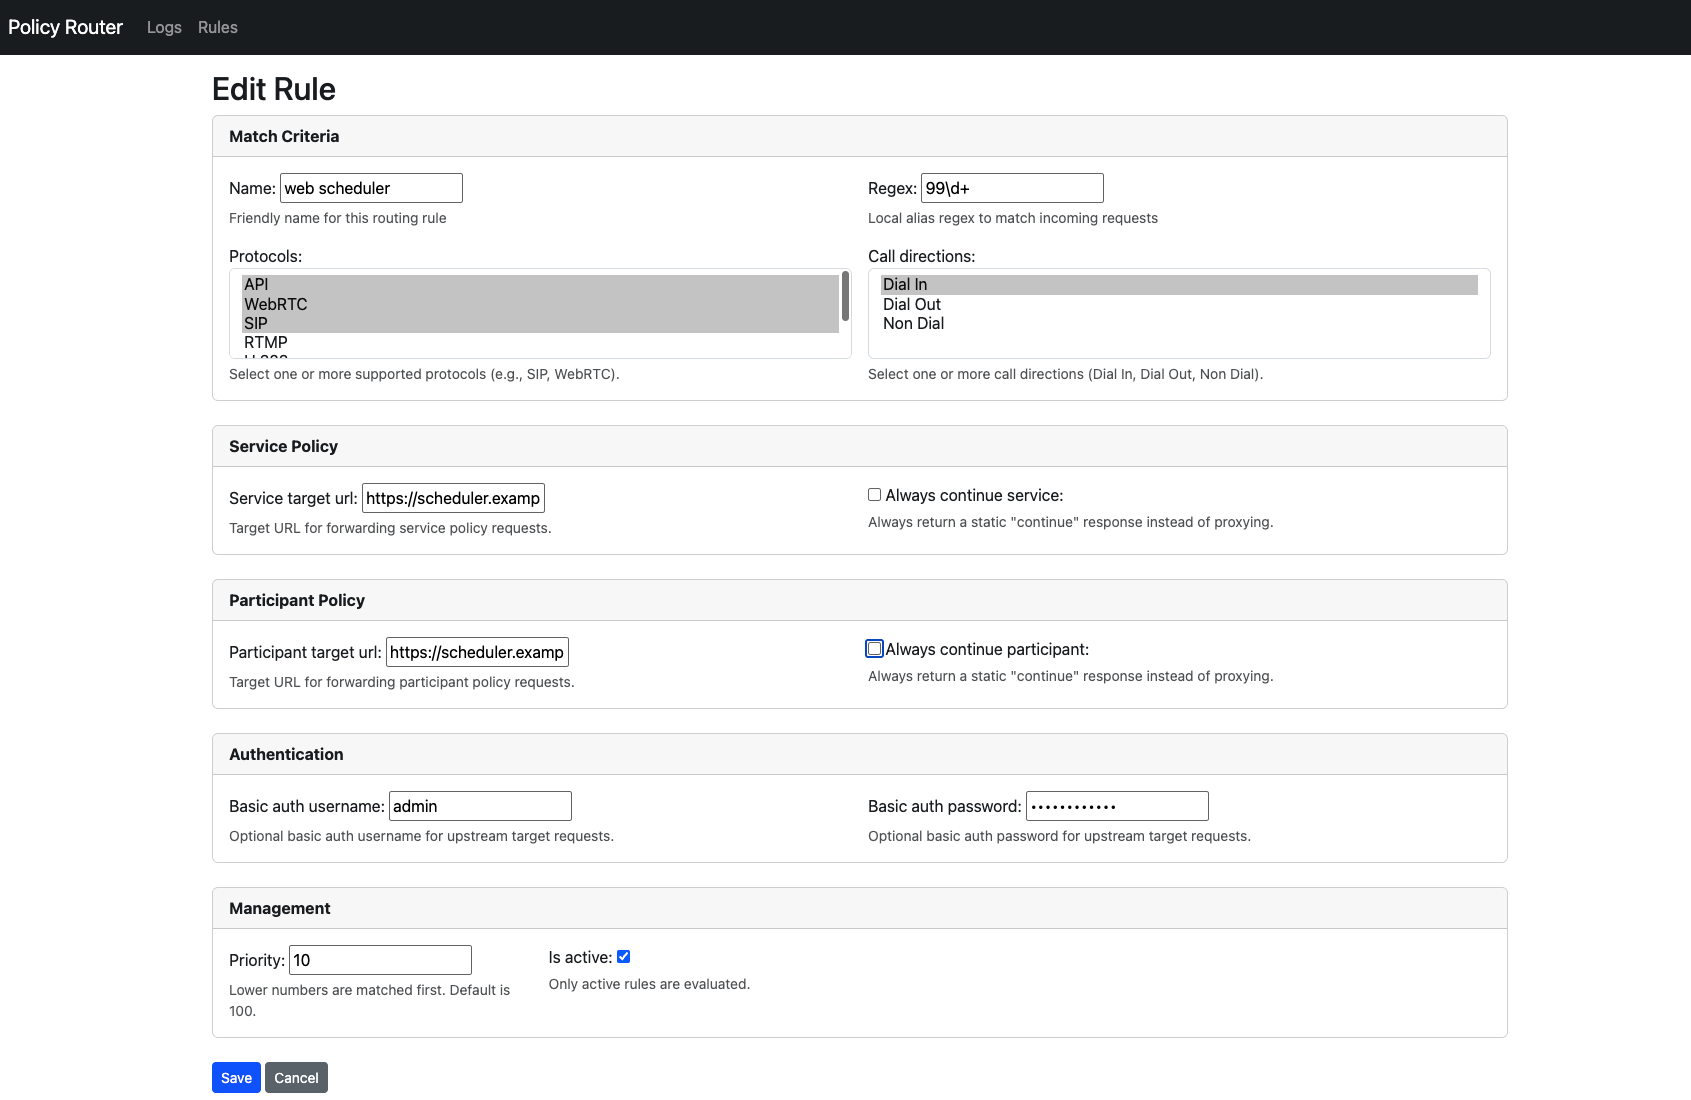
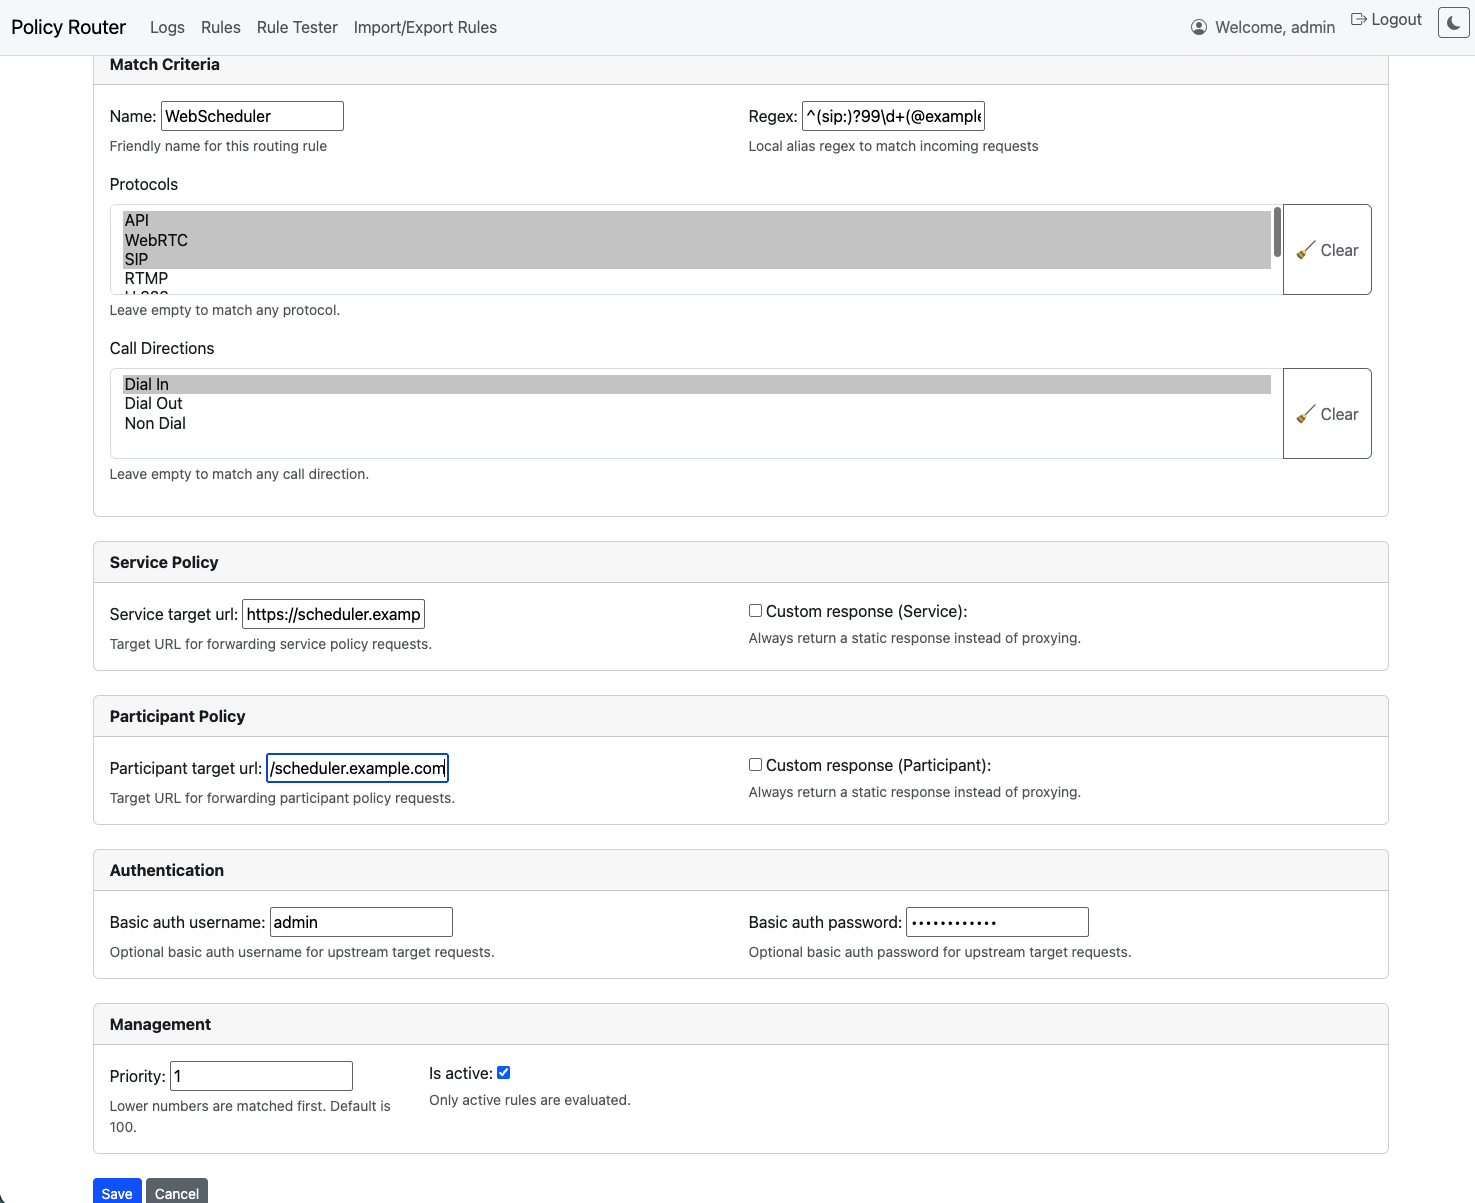
add new pngs and README update

diff --git a/README.md b/README.md
@@ -1,145 +1,152 @@
-# Pexip Policy Router
+# 🧭 Pexip Policy Router
 
-A Django-based proxy and management interface for routing **Pexip Infinity Service** and **Participant Policy** requests.  
-This project allows administrators to configure regex-based rules to forward policy requests to one or more upstream policy servers, with support for:
-
-- **Service policy proxying** (`/policy/v1/service/configuration`)
-- **Participant policy proxying** (`/policy/v1/participant/properties`)
-- **Regex-based rule matching** on `local_alias`
-- **Rule matching** on `call_direction` and/or `protocol`
-- **Rule priorities** (lower numbers evaluated first)
-- **Optional Basic Authentication** per upstream
-- **Request/response logging** with a searchable log viewer
+A **Django-based proxy and management interface** for routing **Pexip Infinity Service** and **Participant Policy** requests.  
+Administrators can configure **regex-based rules** to forward or override policy requests to one or more upstream servers — with live metrics, duplicate detection, and a modern web UI.
 
 ---
 
-## Screenshots
+## ⚙ Core Capabilities
 
-### Rule Management
+- **Service Policy Proxy** → `/policy/v1/service/configuration`  
+- **Participant Policy Proxy** → `/policy/v1/participant/properties`
+- **Regex Rule Matching** on `local_alias`
+- **Optional filters** for `protocol` and `call_direction`
+- **Rule Priority Ordering** (lower numbers evaluated first)
+- **Basic Authentication** per upstream
+- **Full request / response logging**
+- **Web UI for rules & logs**
+- **Import / Export via CSV**
+
+---
+
+## 🧩 Modern UI Features
+
+| Feature | Description |
+|----------|--------------|
+| 🔀 **Drag-and-Drop Reordering** | Easily change rule priorities by dragging rows — instant persistence |
+| 🧬 **Duplicate Detection** | Identifies overlapping regex patterns, with tooltips showing overlap examples |
+| 📈 **Usage Metrics** | Each rule tracks hit count and last-matched timestamp |
+| 🧱 **CSV Import / Export** | Backup or bulk-edit all rules via a simple CSV |
+| 🪄 **Rule Duplication** | One-click cloning of existing rules |
+| 🔒 **Basic Auth Configurable per Rule** | Different upstream credentials per target |
+| 💡 **Override Responses** | Instantly return custom JSON for service or participant policies |
+| 🔍 **Log Viewer** | Filter by rule, alias, and date — with syntax-highlighted JSON |
+| 🧭 **Filter Memory & Live Search** | Filters persist across sessions for smooth UX |
+| 🖱 **Sticky Table Columns** | “Grip” and “Actions” columns always visible — no horizontal scrolling |
+
+---
+
+## 🖼 Screenshots
+
+### Rules Dashboard  
 ![Rules List](docs/screenshots/policy_router_list.png)
 
-### Rule Form
+### Edit Rule  
 ![Rules Form](docs/screenshots/policy_router_form.png)
 
-### Logs Viewer
+### Logs Viewer  
 ![Logs View](docs/screenshots/policy_router_filter_logs.png)
 
 ---
-## ✨ Features
 
-- **Rule-based routing**
-  - Match requests based on `local_alias` regex
-  - Rules are applied in **priority order** (lowest number first)
-  - Active/inactive toggle per rule
+## ✨ Highlights
 
-- **Overrides**
-  - Rules can be configured to **always return a JSON response** instead of forwarding upstream
-  - Default override responses:
-    ```json
-    { "status": "success", "action": "continue" }
-    ```
-  - Custom JSON responses can be defined per rule for:
-    - Service policy (`/policy/v1/service/configuration`)
-    - Participant policy (`/policy/v1/participant/properties`)
+### Rule-Based Routing
+- Rules evaluated by ascending priority
+- Match against `local_alias`, `protocol`, and `call_direction`
+- Optional JSON override instead of proxying upstream
 
-- **Authentication**
-  - Supports optional **Basic Auth** for upstream targets
+### Override Mode
+Define static responses for fast local handling:
+```json
+{ "status": "success", "action": "continue" }
+```
+Used for service and participant endpoints independently.
 
-- **Logging**
-  - Every request and response is logged in the database
-  - Logs include:
-    - Rule matched
-    - Request path, method, body
-    - Response status and body
-    - Whether the rule was an **override**
-  - Logs UI:
-    - Filter by rule, alias, date/time
-    - Highlight search terms
-    - Pretty-printed JSON with syntax highlighting
+### Secure Proxying
+- Supports per-rule **Basic Auth** to authenticate against remote policy servers  
+- Automatically strips hop-by-hop headers before forwarding
 
-- **Admin & UI**
-  - Manage rules through Django Admin or custom HTML forms
-  - Add/edit/delete rules
-  - Override toggles with JSON editor fields
-  - Logs displayed with pagination, highlighting, and JSON pretty-printing
-
-- **Deployment Ready**
-  - Includes `.gitignore`, `requirements.txt`
----
-
-##  Requirements
-
-- Python **3.11+**
-- Django **5.0+**
-- httpx
-
-Dependencies are listed in `requirements.txt`.
+### Logging
+- Every request/response is stored with:
+  - Rule matched
+  - Alias and parameters
+  - Upstream URL and response code
+  - Override flag
+- Web UI includes:
+  - Filter/search by alias, rule, or timeframe
+  - Syntax-highlighted JSON
+  - Pagination and export options
 
 ---
 
-##  Installation
+## 🧱 Installation for a dev environment
 
-1. Clone the repository:
+### Requirements
+- **Python 3.11+**
+- **Django 5.0+**
+- **httpx**
 
-   ```bash
-   git clone https://github.com/your-org/pexip-policy-router.git
-   cd pexip-policy-router
+### Steps
+```bash
+git clone https://github.com/your-org/pexip-policy-router.git
+cd pexip-policy-router
 
-2. Create a virtual environment and install dependencies:
+python3 -m venv venv
+source venv/bin/activate   # macOS/Linux
+venv\Scripts\activate      # Windows
 
-    ```bash
-    python3 -m venv venv
-    source venv/bin/activate   # On Linux/macOS
-    venv\Scripts\activate      # On Windows
+pip install -r requirements.txt
+python manage.py makemigrations policy_router
+python manage.py migrate
+python manage.py createsuperuser
+python manage.py runserver 0.0.0.0:8000
+```
 
-    pip install -r requirements.txt
+---
 
-3. Run migrations:
+## 🚀 Usage
 
-    ```bash
-    python manage.py makemigrations policy_router
-    python manage.py migrate
-
-4. Create superuser (optional):
-
-    ```bash
-    python manage.py createsuperuser
-
-5. Start the development server:
-
-    ```bash
-    python manage.py runserver 0.0.0.0:8000
-
-##  Usage
-
-- Rules UI: Visit http://localhost:8000/rules/ to create, edit, and delete rules.
-- Logs UI: Visit http://localhost:8000/logs/ to search and view request logs.
+### Web UI
+- Rules: [http://localhost:8000/rules/](http://localhost:8000/rules/)
+- Logs: [http://localhost:8000/logs/](http://localhost:8000/logs/)
 
 ### Example Rule
+| Field | Example |
+|-------|----------|
+| Local Alias Regex | `^(sip:)?99\d+(@example.com)?` |
+| Service Policy Target | `https://webscheduler.example.com` |
+| Participant Policy Target | `https://webscheduler.example.com` |
+| Priority | `1` |
+| Basic Auth | `username` / `password` |
 
-- Local Alias Regex: ^room-\d+$
-- Service Policy Target: https://upstream.example.com
-- Participant Policy Target: https://upstream.example.com
-- Priority: 1
-- Basic Auth: username / password
+### Log Rotation
+```bash
+python manage.py rotate_logs --days=30
+```
+*(Can be scheduled with cron or Celery Beat.)*
 
-### Log rotation
+---
 
-As this is a POC, you can add log rotation to a crod job or run manually. Proper implementation would be to use something like a Celery Beat Task
+## ☁ Deploy to Azure Web App (Linux)
 
-    ```bash
-    python manage.py rotate_logs --days=30
+See [DeployAzureWebApp.md](DeployAzureWebApp.md) for deployment notes.
 
-### Deploy to Azure WebApp - Linux
-  See DeployAzureWebApp.md
+---
 
-### Authentication
+## 🔐 Authentication
 
-The application is configured to use the superuser credentials configured in step 4. The policy endpoints also use these credentials, so add them to the configration of the external policy server in the Infinity policy profile.
+The app uses Django’s authentication system.  
+By default:
+- Web UI requires login (`ENABLE_WEB_AUTH = True`)
+- Policy endpoints can require Basic Auth (`ENABLE_POLICY_AUTH = True`)
 
-To disable or enable authentication for the app, adjust the settings in the settings.py file:
+Configured in `settings.py`:
+```python
+ENABLE_WEB_AUTH = True        # Require login for web views
+ENABLE_POLICY_AUTH = True     # Require Basic Auth for /policy endpoints
+```
 
-    ```bash
-    # Authentication toggles
-    ENABLE_WEB_AUTH = True        # Require login for web views (/rules)
-    ENABLE_POLICY_AUTH = True     # Require Basic Auth for policy endpoints
+Add the same credentials to your **Infinity External Policy Server** configuration.
+
+---
